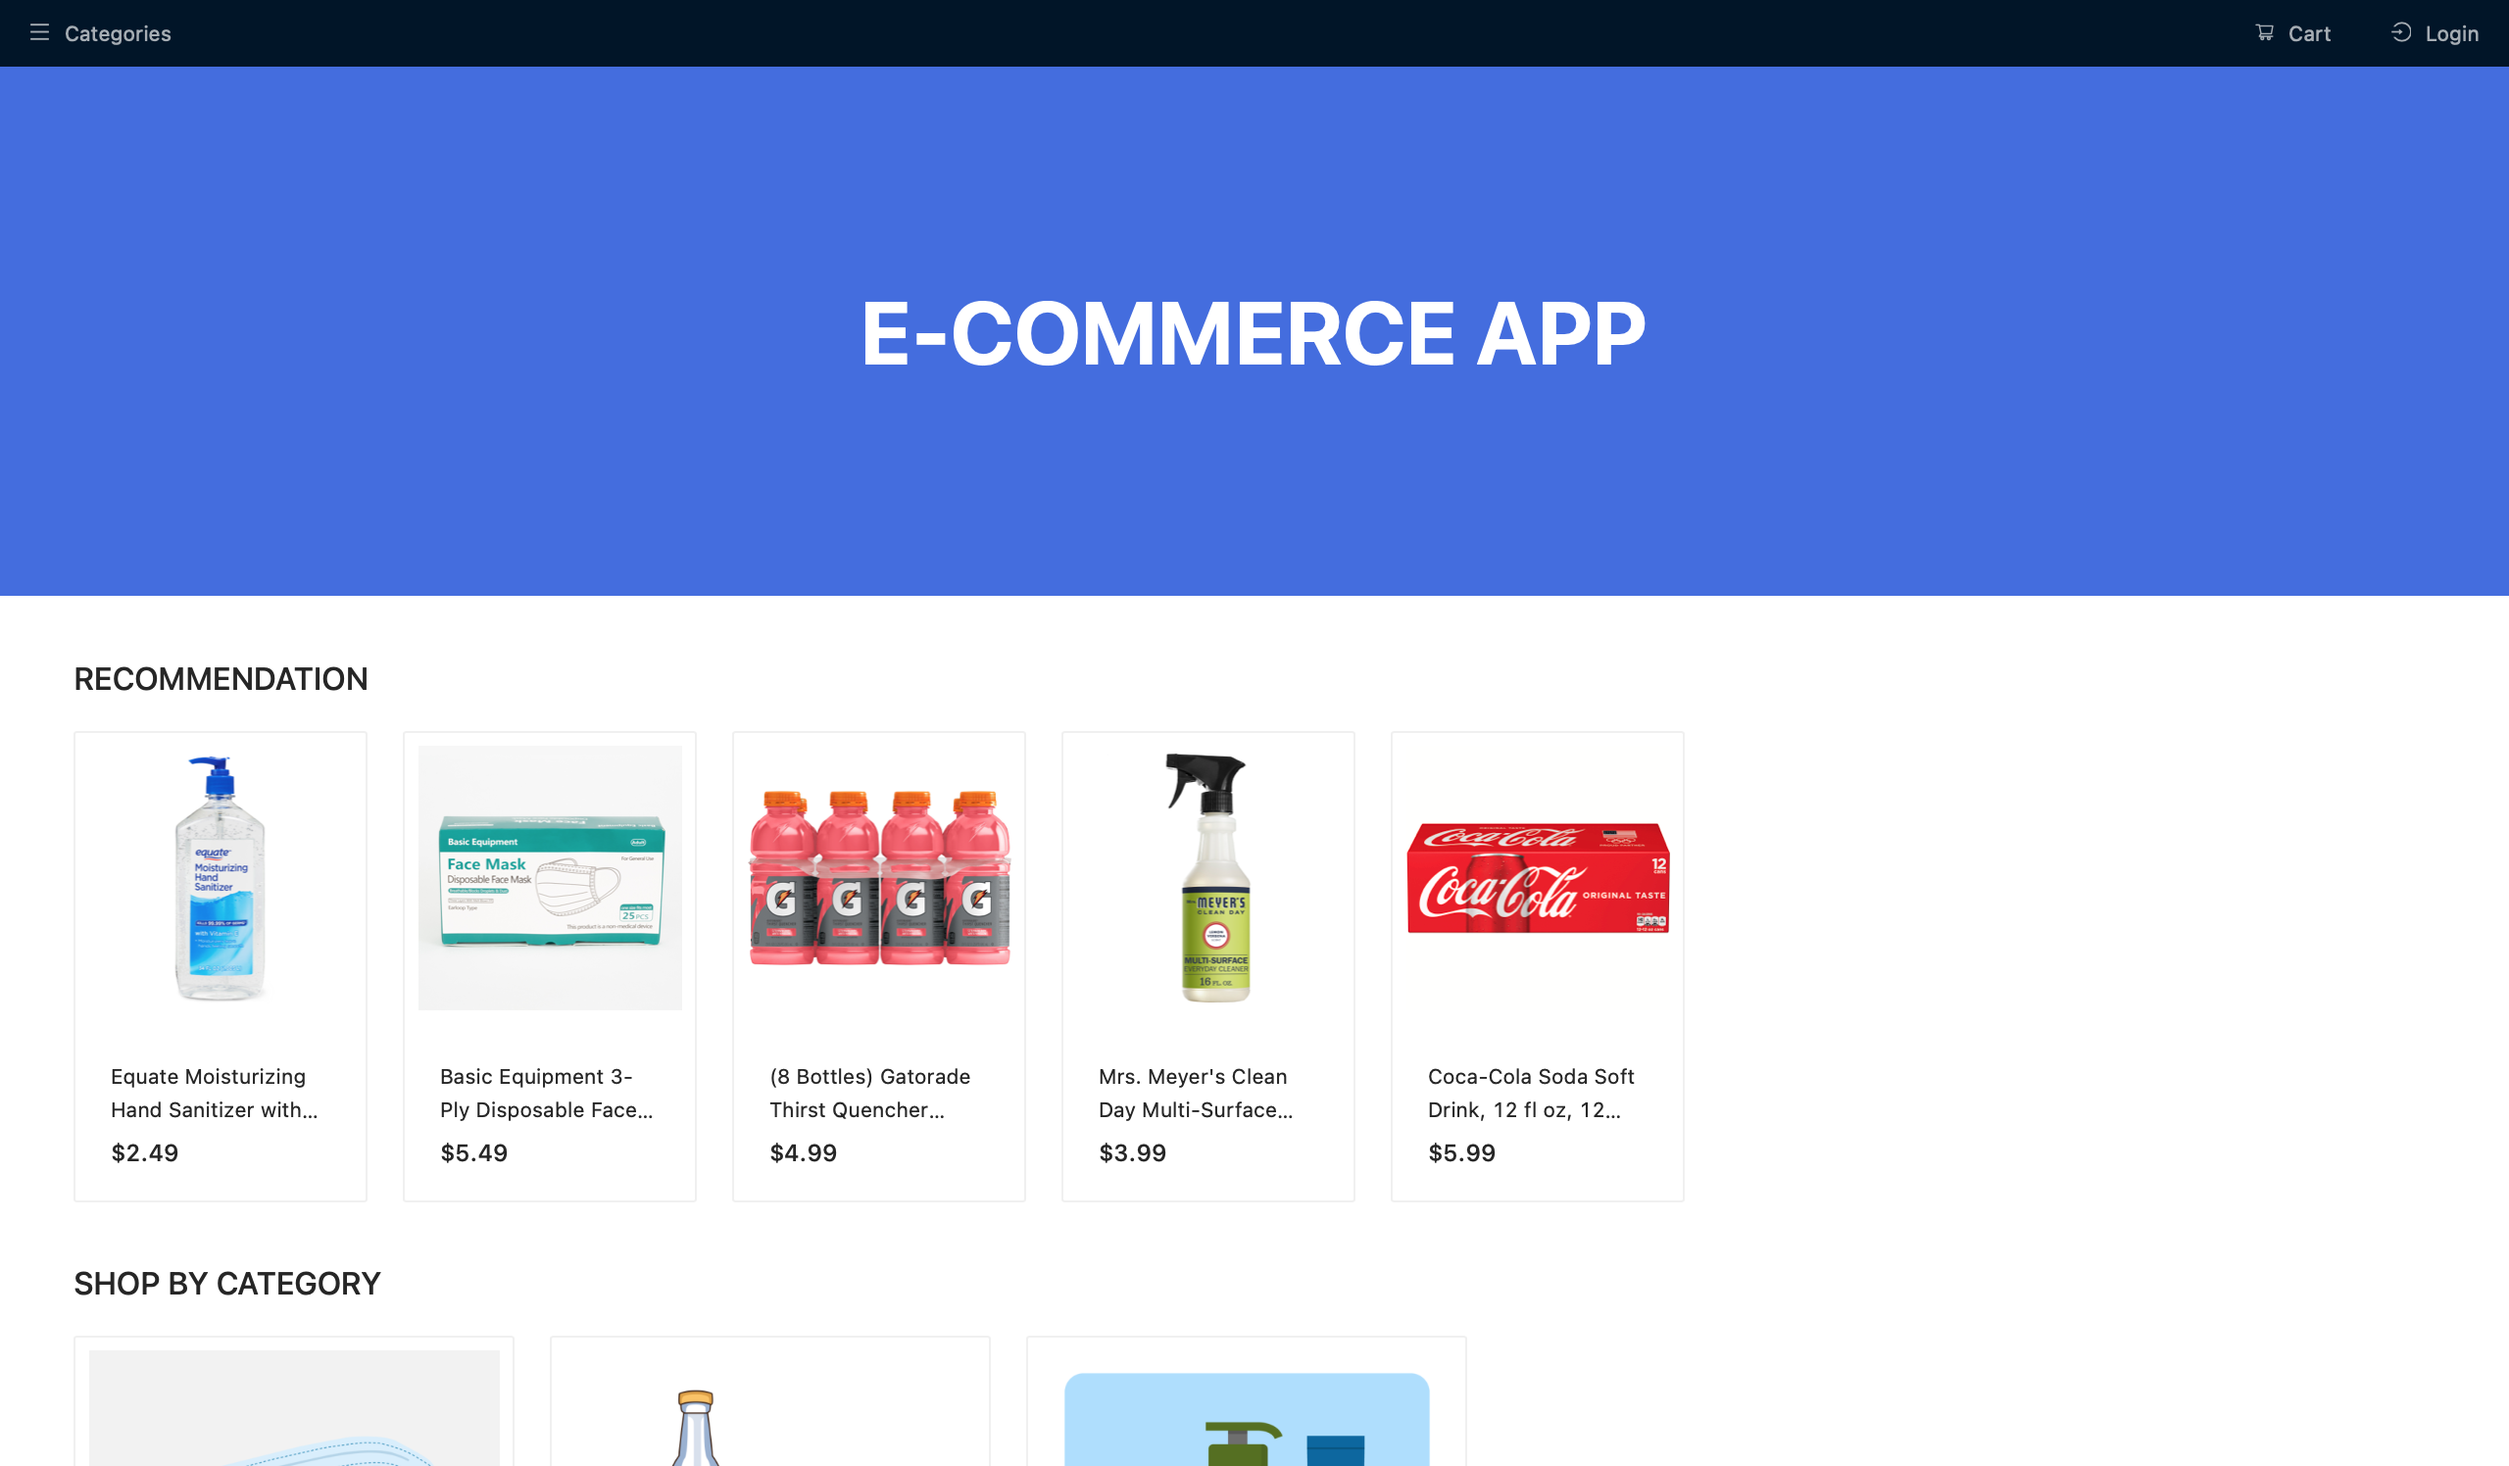
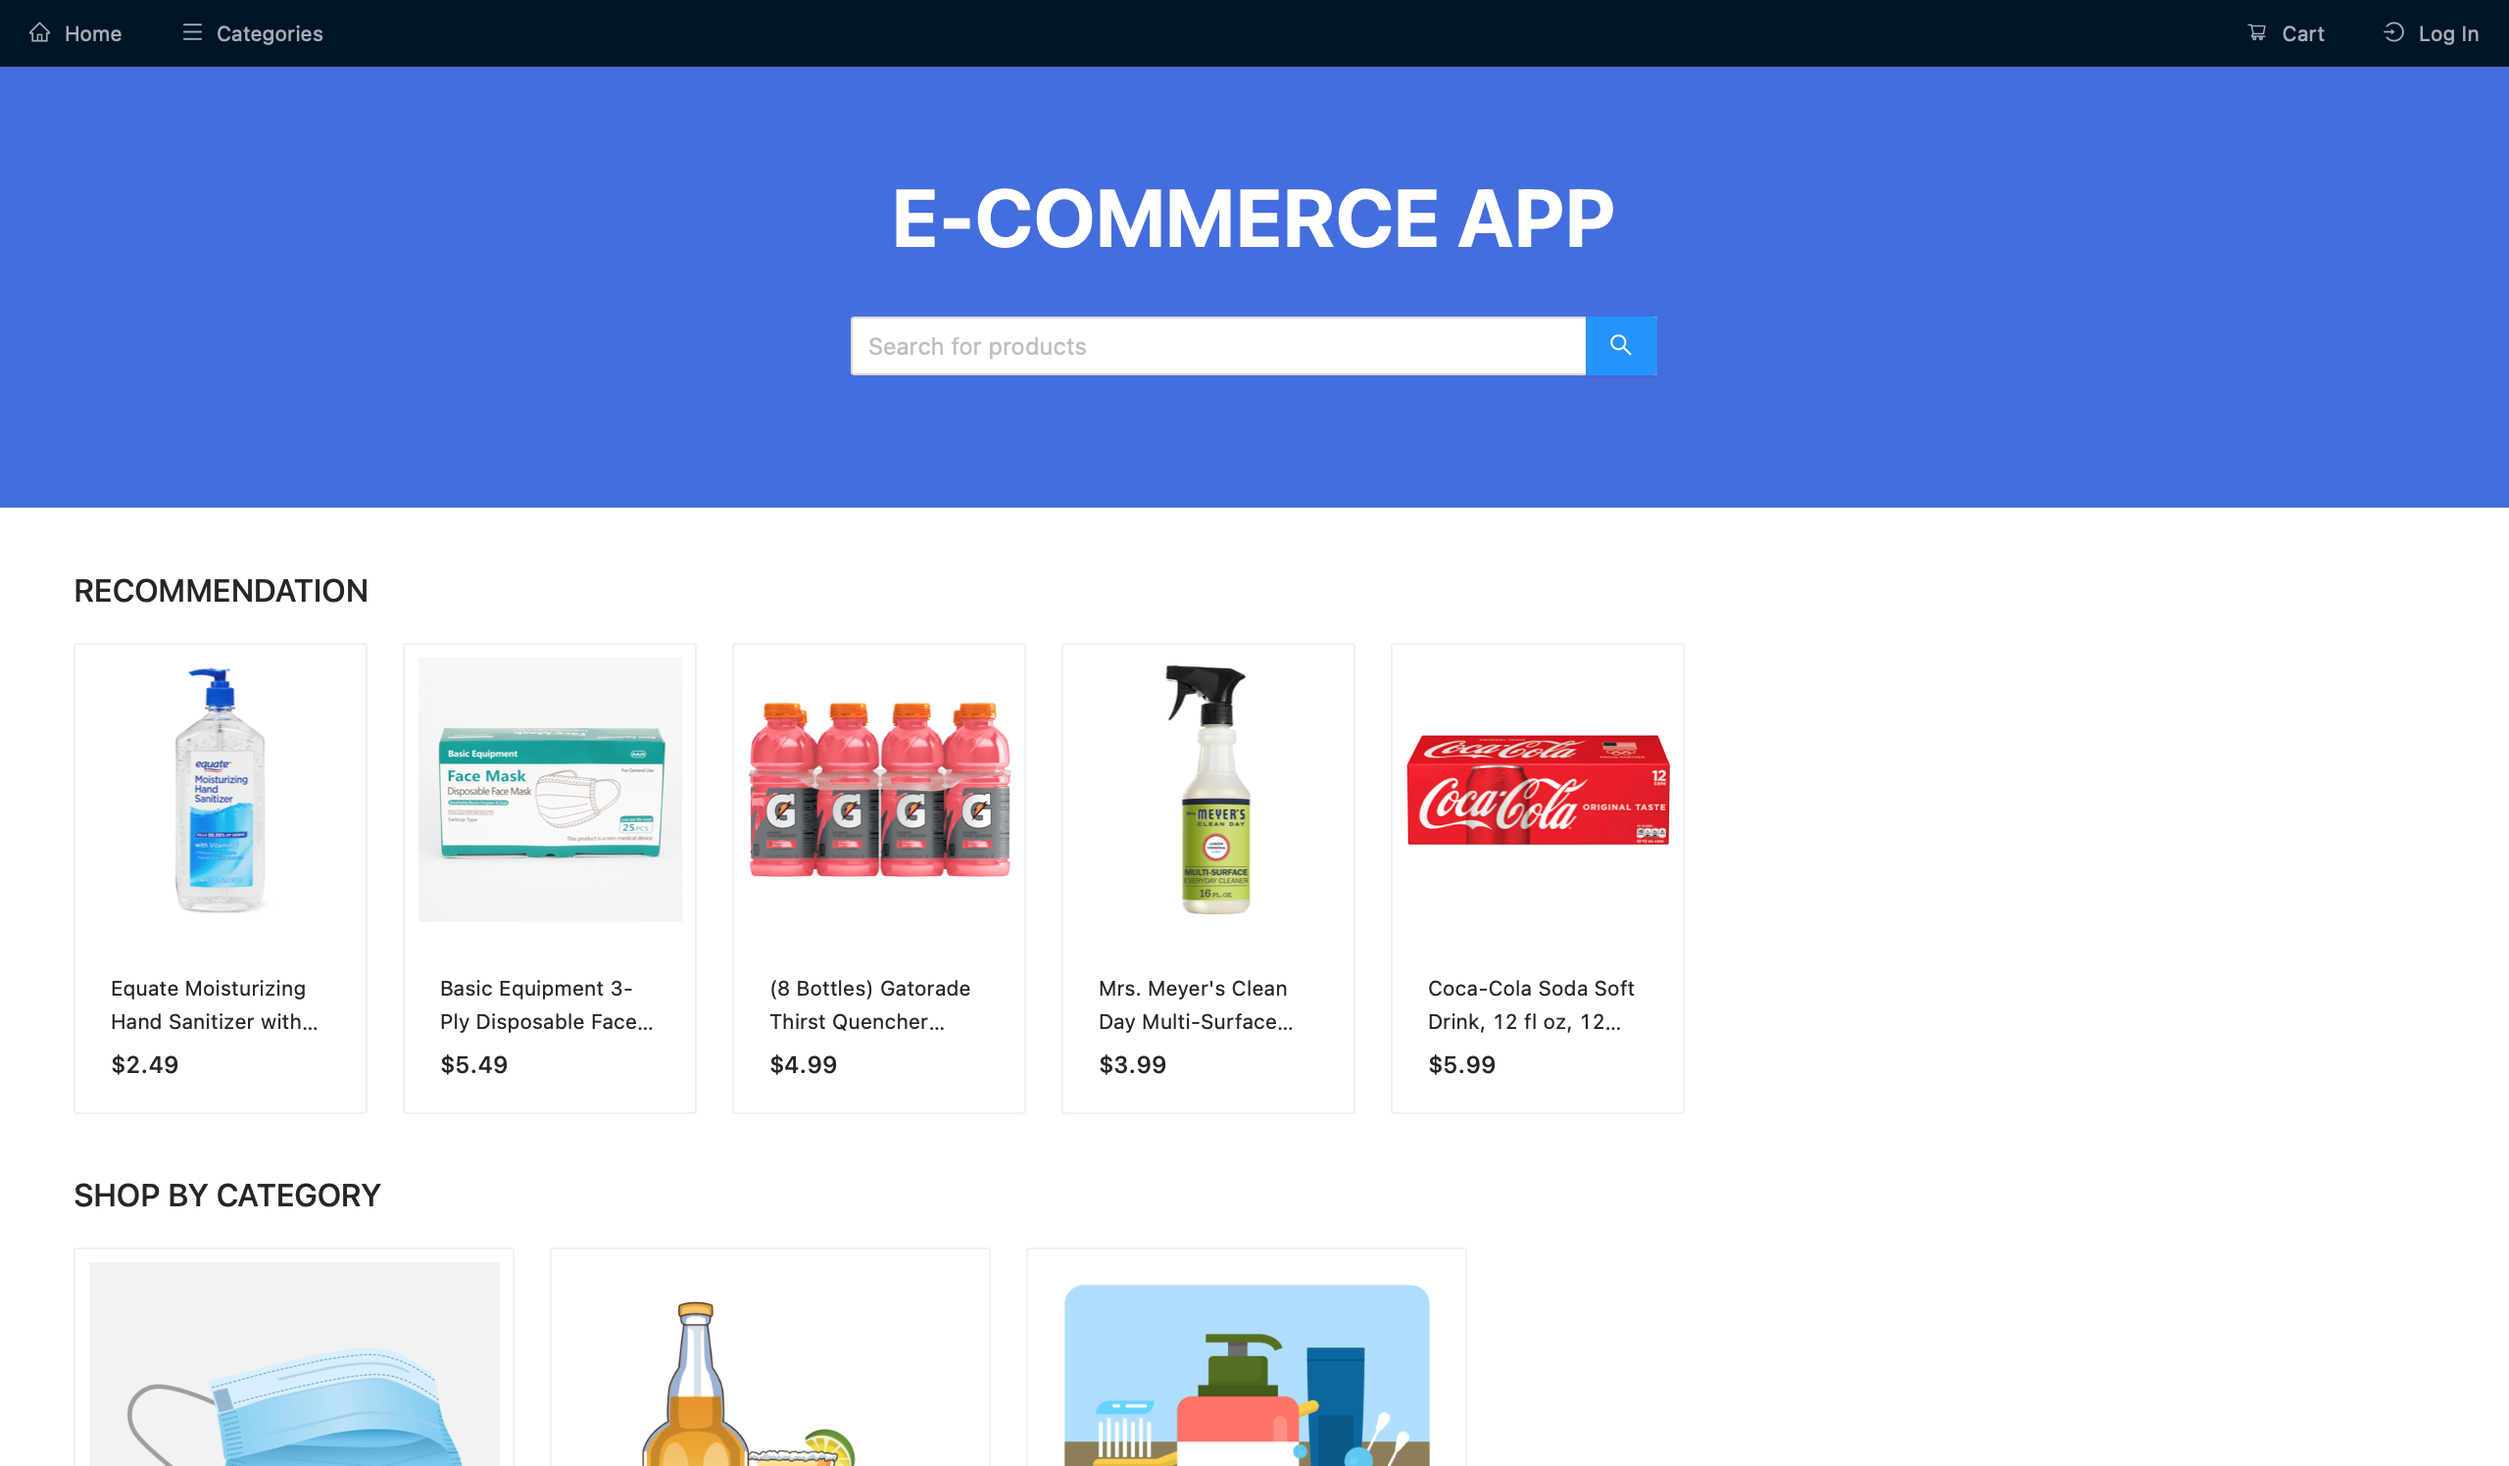
.

diff --git a/README.md b/README.md
@@ -1,20 +1,27 @@
 # E-Commerce App
 
-An application that allows users to buy and sell products, built with `React`, `Redux`, `Node.js`, `Express.js`, and `MongoDB`.
+An e-commerce application that allows users to buy and sell products. Built with `React`, `Redux`, `Node.js`, `Express.js` and `MongoDB`.
 
 ## Deployment
 
 [https://xinyuwen-react-e-commerce.herokuapp.com](https://xinyuwen-react-e-commerce.herokuapp.com)
 
-## Project Screenshots
+## Screenshot
 
 ![screen shot](https://github.com/xinyuwen23/react-e-commerce/blob/master/screenshots/1.png?raw=true)
 
-![screen shot](https://github.com/xinyuwen23/react-e-commerce/blob/master/screenshots/2.png?raw=true)
+## Features
 
-![screen shot](https://github.com/xinyuwen23/react-e-commerce/blob/master/screenshots/3.png?raw=true)
-
-![screen shot](https://github.com/xinyuwen23/react-e-commerce/blob/master/screenshots/4.png?raw=true)
+- Sign in with Email or Google (OAuth)
+- Search for products
+- Categories
+- Product details with images and markdown-styled description
+- Shopping cart
+- Edit addresses
+- Checkout
+- Order history
+- Help requests with text and images
+- Upload products to sell as a seller
 
 ## Installation and Setup Instructions
 
